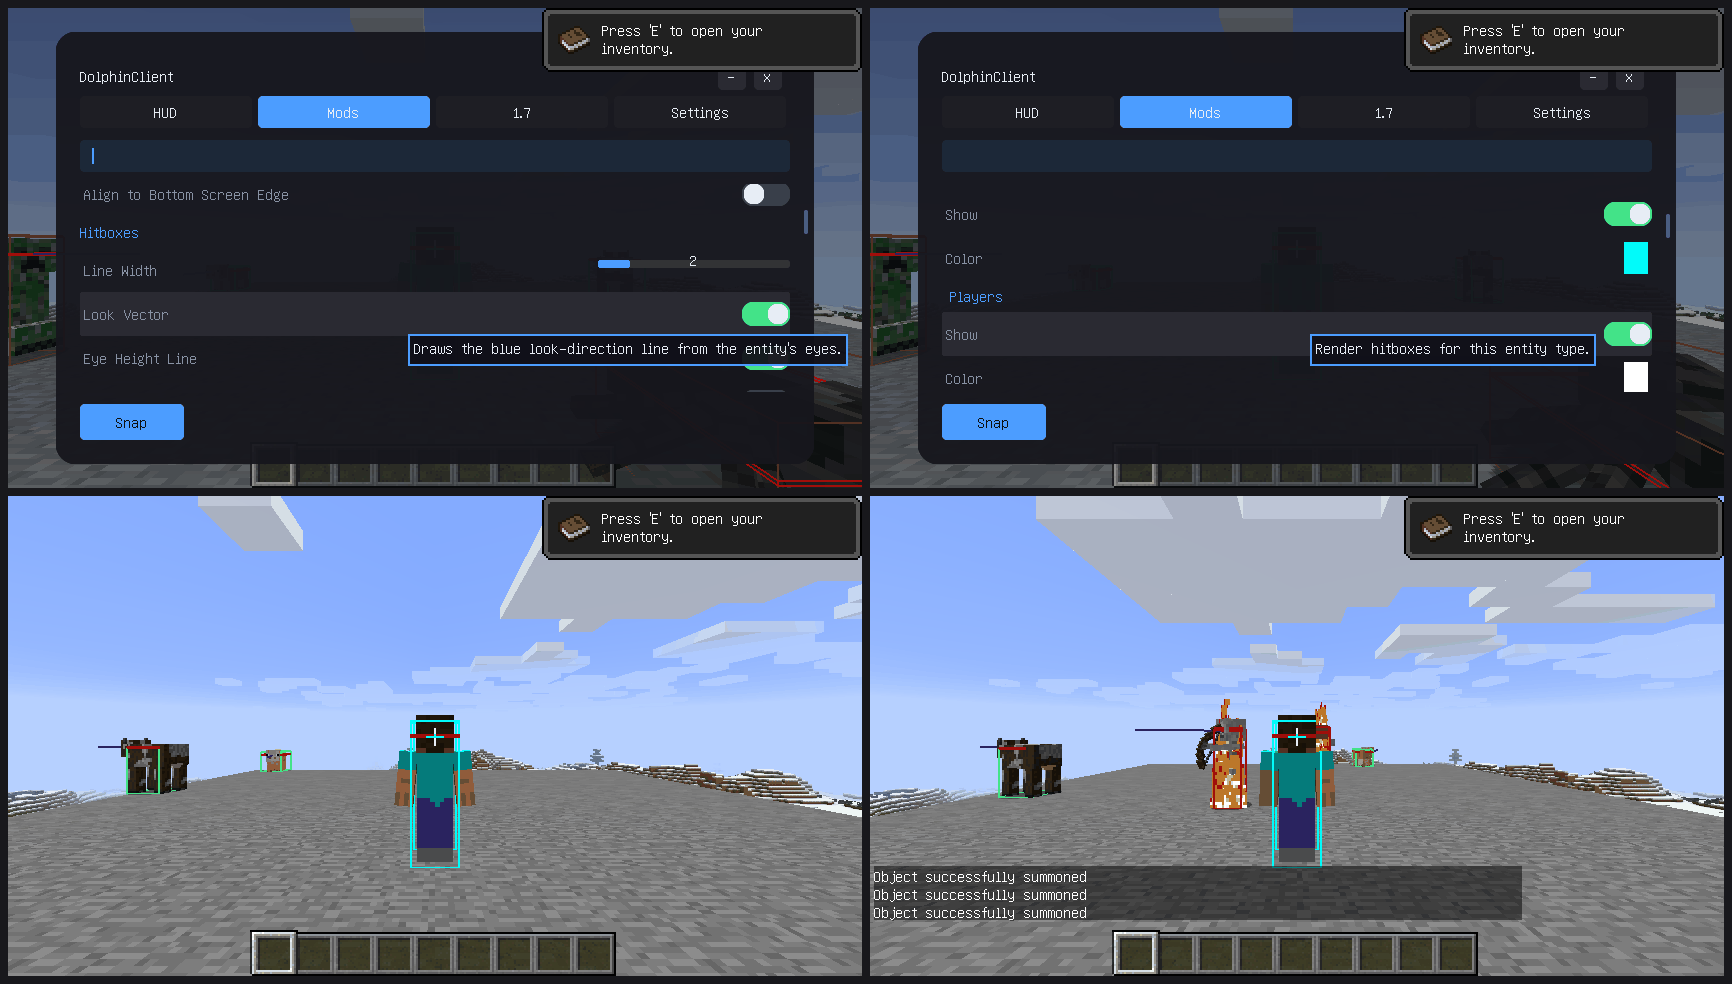
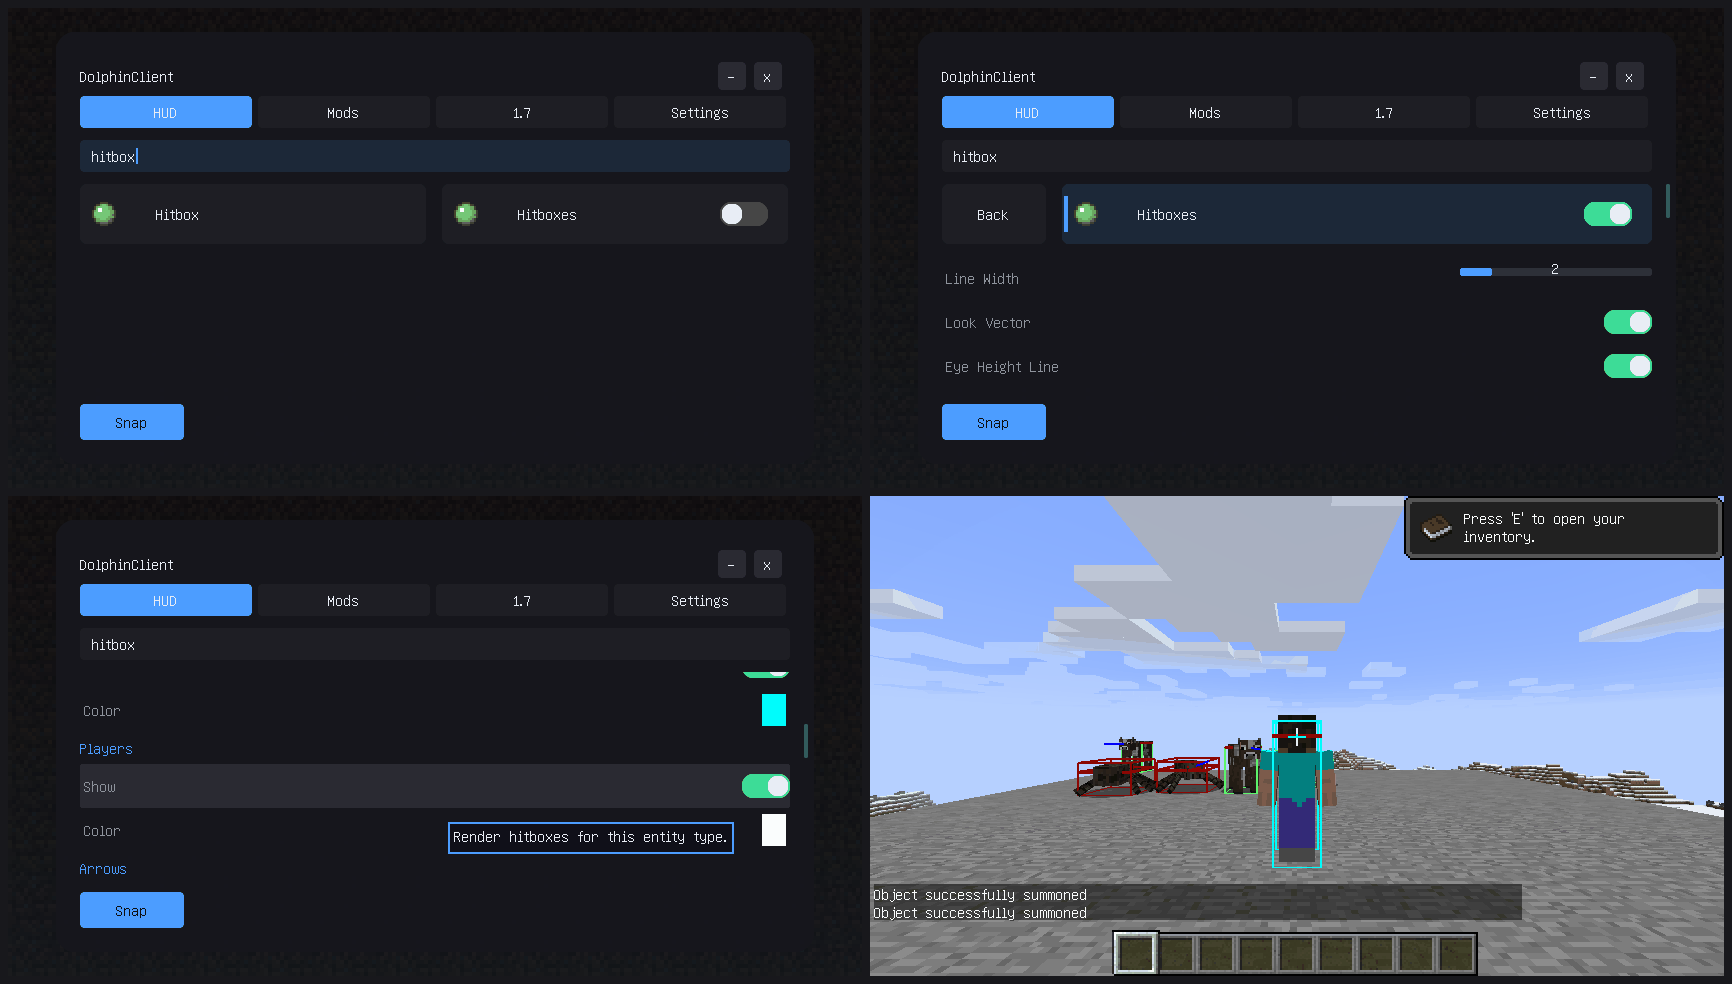
Move Hitboxes from the Rendering group to the HUD tab
Hitboxes was nested under the rendering category, which put it inside the
Rendering tile on the Mods tab. That also hid its master enable: the menu
catalog filters out options named "enabled" and only re-surfaces them as a
tile-level toggle, so a category rendered as a nested section loses its
switch entirely. The module could only be turned on by binding the unbound
keybind or editing the config by hand.

Register the category at the config root and route it to the HUD tab, the
same way "general" is routed to Settings. Tiles on the HUD tab now keep
their children as sections rather than promoting each one, otherwise the
eight per-entity groups would each become a separate tile.

Hitboxes is now its own HUD tile with a working enable toggle, and the
per-type Show/Colour groups render inside it as sections.

Note this moves the saved options from rendering.hitboxes to a top-level
hitboxes block, so existing values reset to defaults.

Claude-Session: https://claude.ai/code/session_01XmYtYPapkLEw3N96pZf7Pv

diff --git a/versions/1.8.9/src/main/java/io/github/axolotlclient/config/ui/MenuCatalog.java b/versions/1.8.9/src/main/java/io/github/axolotlclient/config/ui/MenuCatalog.java
@@ -153,7 +153,7 @@ public final class MenuCatalog {
 				absorbAnimations(modules, category);
 				continue;
 			}
-			Tab tab = isSettings(name) ? Tab.SETTINGS : Tab.MODS;
+			Tab tab = isSettings(name) ? Tab.SETTINGS : isHudTab(name) ? Tab.HUD : Tab.MODS;
 			absorb(modules, category, tab);
 		}
 
@@ -193,11 +193,16 @@ public final class MenuCatalog {
 	/**
 	 * Settings keeps a tile per child even when only Screenshots remains
 	 * under General, matching the layout from before Authentication was
-	 * removed. Mods still need at least two children before splitting.
+	 * removed. Mods still need at least two children before splitting. HUD
+	 * tiles always stay whole so an overlay's groups render as sections rather
+	 * than as one tile per group.
 	 */
 	private static boolean shouldPromote(Collection<OptionCategory> children, Tab tab) {
 		int size = children.size();
 		if (size == 0 || size > 12) {
+			return false;
+		}
+		if (tab == Tab.HUD) {
 			return false;
 		}
 		return tab == Tab.SETTINGS || size >= 2;
@@ -255,6 +260,14 @@ public final class MenuCatalog {
 
 	private static boolean isSettings(String name) {
 		return "general".equals(name);
+	}
+
+	/**
+	 * Overlays that draw in the world rather than on a HUD widget still belong
+	 * on the HUD tab, so they are routed there instead of Mods.
+	 */
+	private static boolean isHudTab(String name) {
+		return "hitboxes".equals(name);
 	}
 
 	private static OptionCategory find(Collection<OptionCategory> categories, String name) {

diff --git a/versions/1.8.9/src/main/java/io/github/axolotlclient/modules/hitboxes/Hitboxes.java b/versions/1.8.9/src/main/java/io/github/axolotlclient/modules/hitboxes/Hitboxes.java
@@ -85,7 +85,7 @@ public class Hitboxes extends AbstractModule {
 			types.put(type, settings);
 		}
 
-		DolphinClient.config().rendering.add(category);
+		DolphinClient.config().addCategory(category);
 
 		AxoKeybinding.create(AxoKeys.KEY_UNKNOWN, "toggle_hitboxes").br$registerOnConsumeClick(() -> {
 			enabled.toggle();
